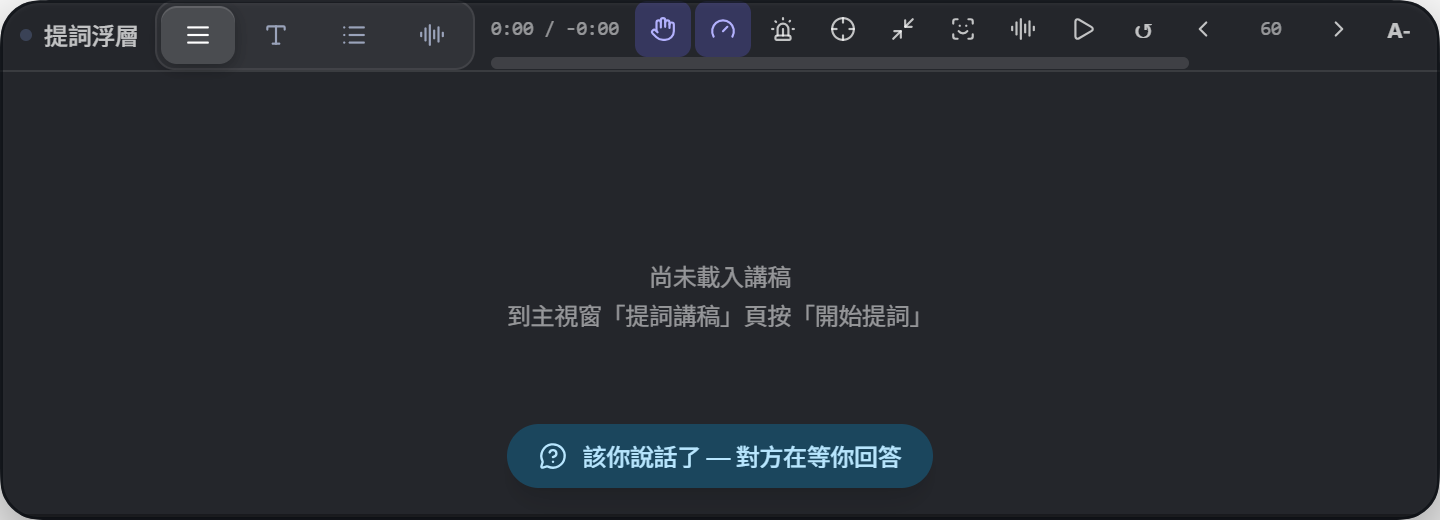
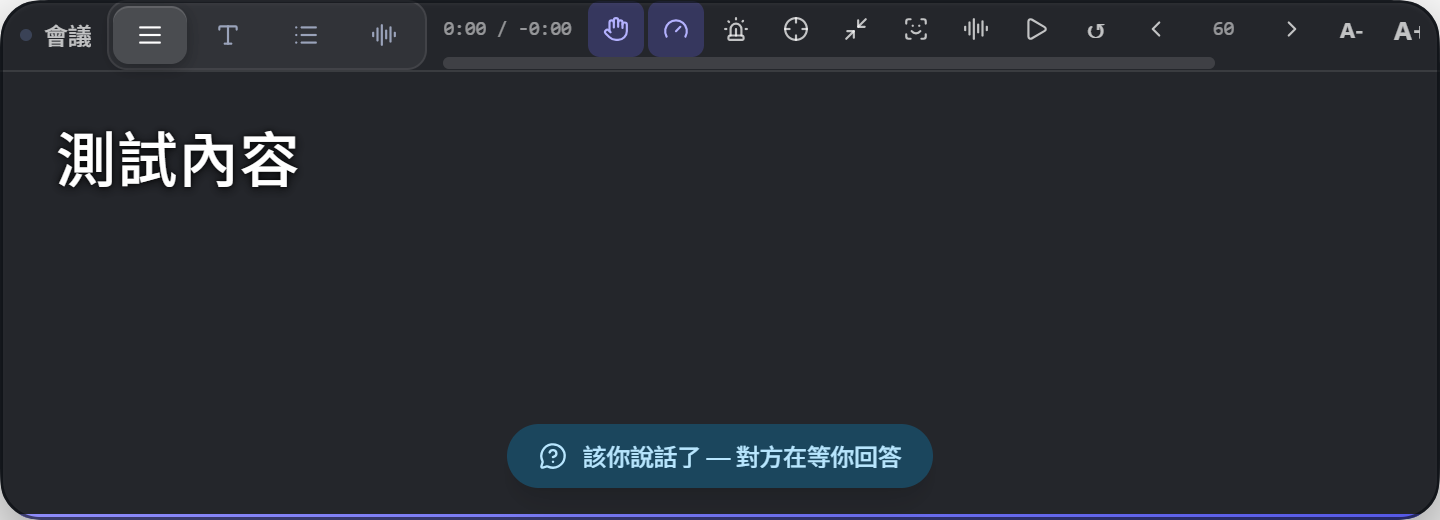
Stop charging 25 seconds for a hint nobody was on screen to see
The previous commit fixed the turn-yield cooldown being charged when a
signal failed to deliver, and called it the first real product defect in
this project. That was true and it was incomplete. It closed "the window
is gone" and "the setting is off"; it left "the window is there and
nobody is looking", which is the common case.

sendTurnYield() returned true as soon as the window existed. But
webContents.send() is fire-and-forget -- it never reports whether anything
is listening -- and the overlay is created with show:false and has no
ready-to-show handler, so it starts hidden. Pressing the hotkey to put it
away is win.hide(): the window survives, the renderer survives,
useTurnYield calls setHint() as usual, and HINT_DISPLAY_MS then expires
the hint where nobody can see it. The 25s per-phrase and 15s global
cooldowns get charged by a prompt that never reached a human.

One line fixes it: reject when !isVisible(). The repo had already answered
this question correctly elsewhere -- ipc.ts guards playPause, speedUp and
speedDown with isDestroyed() && isVisible() and comments "ignore when not
shown". sendTurnYield was the only ambient signal path that did not, and
the only one carrying a 25-second cooldown.

The rest of this is what that one line exposed.

Three specs were measuring a window the user can never see. Playwright
still reads the DOM of a win.hide()d window, so waitForSelector('該你說話
了') passed inside an invisible overlay: the turn-yield case, the coaching
[…]

diff --git a/e2e/smoke.spec.ts b/e2e/smoke.spec.ts
@@ -112,6 +112,17 @@ test('turn-yield:對方問句經 IPC → 浮層顯示「該你說話了」提示
 
     // 強制開啟(使用者可能關過;開關持久化在 settings.json)
     await main.evaluate(() => window.api.setSettings({ overlay: { turnYield: true } }))
+    // **先把浮層叫出來。**
+    //
+    // 這不是多此一舉 —— 這支測試原本是**在隱藏的浮層上通過的**。浮層以
+    // `show: false` 建立(createOverlayWindow)且沒有 ready-to-show→show,
+    // 預設就是隱藏的;而 Playwright 的 waitForSelector 判的是 DOM 盒子有沒有
+    // 版面,win.hide() 之後照樣有。所以「提示有渲染出來」不等於「使用者看得到」。
+    //
+    // sendTurnYield 現在會檢查 isVisible() 拒絕對隱藏浮層回報送達(否則 25 秒
+    // 冷卻會被一個沒人看過的提示吃掉),一改這支測試就紅 —— 而紅的原因正是
+    // 它原本在量一件使用者永遠不會遇到的事。
+    await main.evaluate(() => window.api.overlayShow({ title: '提詞', content: '測試內容' }))
     // 經真 IPC 推對方問句(與 Record 頁系統音訊轉錄相同的 context:push-transcript 路徑)
     // main 偵測問句語尾 → 1.2s 防抖 → 廣播 context:turn-yield → 浮層提示
     //
@@ -133,6 +144,91 @@ test('turn-yield:對方問句經 IPC → 浮層顯示「該你說話了」提示
   }
 })
 
+/**
+ * 隱藏的浮層不該「吃掉」那句問話。
+ *
+ * 這是本專案第一個產品缺陷的**後一半**。sendTurnYield() 原本只要視窗存在且未銷毀
+ * 就回報已送達。但浮層是以 `show: false` 建立的(createOverlayWindow,沒有
+ * ready-to-show→show),而使用者按熱鍵收掉它走的是 win.hide() —— 視窗活著、
+ * renderer 活著、useTurnYield 照樣 setHint(),然後 6 秒的 HINT_DISPLAY_MS
+ * 在沒人看的狀態裡走完。於是 25 秒同句冷卻與 15 秒全域冷卻都被一個
+ * 「從來沒被看見的提示」記帳了。
+ *
+ * 症狀與「浮層根本不存在」完全一樣:那句話不見了,而且接下來 25 秒不會再提示。
+ * 但隱藏比不存在常見得多 —— 「我不提詞」的正常動作就是按熱鍵把它收掉。
+ *
+ * 判別力在最後兩步:
+ *   隱藏 → 推問句 A(A 不得留下任何冷卻)
+ *   顯示 → **馬上**推問句 B → 必須出現提示
+ *
+ * B 是另一句話,所以規則 1(同句 25 秒)擋不住它;擋得住的是規則 2 的 15 秒
+ * 全域冷卻 —— 而那只有「A 記了帳」才會存在。**所以 B 出現 = A 沒被記帳。**
+ * 把 sendTurnYield 的 isVisible() 拿掉,這支測試必紅(已實測:紅在最後一步,
+ * B 的提示 15 秒都等不到)。
+ *
+ * 中間本來還有一條「隱藏時不該有提示」的斷言,**已刻意拿掉**:實測它在修好與
+ * 沒修好的版本裡**都會通過**(隱藏視窗的 setTimeout 被 Chromium 節流,防抖觸發時間
+ * 不穩),也就是說它量不到任何東西。留著一條抓不到東西卻長得像防線的斷言,
+ * 比沒有更糟 —— 下一次有人改壞了它會是綠的,而沒有人知道它從來沒紅過。
+ * 只留最後一步:那一條是真的抓得住(拿掉 isVisible() 時實測紅在此行)。
+ */
+test('浮層隱藏時的搶話訊號不記冷卻:叫回浮層後立刻能再提示', async () => {
+  const { app, main } = await launchApp()
+  test.setTimeout(60_000)
+  try {
+    await expect
+      .poll(() => app.windows().length, { timeout: 15_000, intervals: [500, 1_000, 2_000] })
+      .toBeGreaterThanOrEqual(2)
+    const overlay = app.windows().find((w) => w !== main)
+    expect(overlay).toBeTruthy()
+    await overlay!.waitForLoadState('domcontentloaded')
+
+    // 主程序端的浮層視窗 id:renderer 端看不到自己視窗的可見性,
+    // 而「看不看得見」正是這支測試的前提,所以必須從主程序問。
+    const overlayId = await app.evaluate(({ BrowserWindow }) => {
+      // dev 是 #/overlay、packaged 是 #overlay(loadFile 的 hash 會吃掉斜線),兩種都收
+      const isOverlay = (u: string): boolean => u.endsWith('#overlay') || u.endsWith('#/overlay')
+      const w = BrowserWindow.getAllWindows().find((x) => isOverlay(x.webContents.getURL()))
+      return w ? w.id : -1
+    })
+    expect(overlayId).toBeGreaterThan(0)
+    const overlayVisible = (): Promise<boolean> =>
+      app.evaluate(({ BrowserWindow }, id) => {
+        const w = BrowserWindow.fromId(id)
+        return !!w && !w.isDestroyed() && w.isVisible()
+      }, overlayId)
+
+    await main.evaluate(() => window.api.setSettings({ overlay: { turnYield: true } }))
+    await main.evaluate(() => window.api.overlayShow({ title: '提詞', content: '測試內容' }))
+    await waitOverlayFeedbackReady(overlay!, { turnYield: true })
+    expect(await overlayVisible()).toBe(true)
+
+    // 收掉浮層 —— 與按熱鍵同一條路徑(IPC.OverlayHide → setOverlayVisible(false) →
+    // win.hide())。視窗與 renderer 都還活著,這正是這個 bug 成立的前提。
+    await main.evaluate(() => window.api.overlayHide())
+    await expect.poll(overlayVisible).toBe(false)
+
+    const hint = overlay!.locator('text=該你說話了')
+
+    // 問句 A:送出去了,但沒有人看得到。
+    await main.evaluate(() =>
+      window.api.pushTranscript({ text: '請問這個專案的資料管線是怎麼設計的', speaker: 'them' })
+    )
+    // 這裡刻意**不斷言**「隱藏時 DOM 裡沒有提示」:實測那條在兩種版本都會過,
+    // 抓不到東西(理由見上方註解)。冷卻是否被記帳,由下面 B 的提示決定。
+
+    // 問句 B:浮層叫回來之後**馬上**推。
+    await main.evaluate(() => window.api.overlayShow({ title: '提詞', content: '測試內容' }))
+    expect(await overlayVisible()).toBe(true)
+    await main.evaluate(() =>
+      window.api.pushTranscript({ text: '那你怎麼處理資料延遲的問題', speaker: 'them' })
+    )
+    await hint.waitFor({ state: 'visible', timeout: 15_000 })
+  } finally {
+    await app.close()
+  }
+})
+
 test('即時教練:搶話訊號經 IPC → 浮層顯示教練提示', async () => {
   const { app, main } = await launchApp()
   test.setTimeout(60_000)
@@ -145,6 +241,10 @@ test('即時教練:搶話訊號經 IPC → 浮層顯示教練提示', async () =
     await overlay!.waitForLoadState('domcontentloaded')
 
     await main.evaluate(() => window.api.setSettings({ overlay: { coaching: true } }))
+    // 同樣的原因把浮層叫出來:浮層預設隱藏,而 win.hide() 之後 Playwright 仍然
+    // 讀得到 DOM。教練訊號沒有冷卻所以不受 sendTurnYield 那個修影響,但
+    // 「在藏起來的視窗裡找到元素」本來就不是使用者會遇到的情境。
+    await main.evaluate(() => window.api.overlayShow({ title: '提詞', content: '測試內容' }))
     // 對方剛講完 → 2s 內我方開口 = 搶話。
     // 兩段必須在同一個 evaluate 內背靠背送出:分開兩次呼叫在併跑負載下
     // 可能間隔超過 2s 判定窗,搶話不觸發(併跑 flake 來源)。

diff --git a/src/main/liveCoaching.ts b/src/main/liveCoaching.ts
@@ -98,6 +98,22 @@ function deliverRescue(payload: RescuePayload): void {
 function sendTurnYield(kind: 'turn' | 'peer_silence', question: boolean): boolean {
   if (!state.settings.overlay.turnYield) return false
   if (!state.overlayWindow || state.overlayWindow.isDestroyed()) return false
+  // **浮層必須真的在畫面上。** 隱藏不等於銷毀:setOverlayVisible(false) 走的是
+  // win.hide(),視窗與 renderer 都活著,useTurnYield 照樣 setHint() —— 然後
+  // useTurnYield.ts 的 HINT_DISPLAY_MS(6 秒)在沒人看的狀態裡走完。
+  //
+  // 所以「視窗存在」是**不足以**當作送達證據的:webContents.send() 不會回報
+  // 有沒有 listener,而隱藏時就算 listener 在、訊號也進了 DOM,使用者依然看不到。
+  // 症狀與「浮層不存在」完全一樣(那句話不見了,而且 25 秒內不會再提示),
+  // 卻是常見得多的一種:使用者按熱鍵把浮層收掉是「我不提詞」的正常動作。
+  //
+  // 與 main 端其他環境訊號路徑同形(見 ipc.ts 的 playPause / speedUp / speedDown):
+  // 「未顯示時忽略」。差別在這裡有冷卻,所以「忽略」必須真的回報沒送到。
+  if (!state.overlayWindow.isVisible()) return false
+  // 註:頁面還沒 mount 時 useTurnYield 也還沒註冊 listener(preload 的
+  // onTurnYield 是在 useEffect 裡才 ipcRenderer.on)。那個時間窗很窄,而且
+  // 沒有乾淨的主行程訊號能判斷「renderer 已就緒」—— 真的要把這個洞補滿,
+  // 需要的是 renderer 回報 ready,不是再加一個猜測。
   state.overlayWindow.webContents.send(IPC.TurnYieldSignal, { kind, question, at: Date.now() })
   return true
 }

diff --git a/e2e/meeting-flow.spec.ts b/e2e/meeting-flow.spec.ts
@@ -58,6 +58,18 @@ test('模擬會議:六訊號逐段觸發並截圖', async () => {
     // 訂閱 listener 的空窗期,而 turn-yield 的 1.2s 防抖又不會補送 ——
     // 訊號就憑空消失。完整病因見 helpers/turnYield.ts。
     await waitOverlayFeedbackReady(overlay!, { turnYield: true, coaching: true })
+    // **把浮層叫出來。**
+    //
+    // 浮層以 `show: false` 建立(createOverlayWindow,沒有 ready-to-show→show),
+    // 預設就是隱藏的;而 Playwright 讀得到 win.hide() 之後的 DOM。所以這支測試
+    // 原本是在一個使用者**永遠看不到的視窗**裡驗「提示有沒有出現」。
+    //
+    // sendTurnYield 現在會檢查 isVisible():對隱藏浮層回報「沒送到」,因為
+    // webContents.send() 不會回報有沒有 listener,而隱藏時就算 listener 在、
+    // 訊號也進了 DOM,6 秒的 HINT_DISPLAY_MS 一樣會在沒人看的狀態裡走完 ——
+    // 然後那句話就被自己的 25 秒冷卻擋掉了。加上這行之後這支測試才真的在
+    // 量使用者遇到的情境;截圖也才真的拍得到東西。
+    await main.evaluate(() => window.api.overlayShow({ title: '會議', content: '測試內容' }))
 
     // dead_air 從這裡就開始「被觀察」,而不是等到步驟 5。
     //

diff --git a/CHANGELOG.md b/CHANGELOG.md
@@ -7,6 +7,66 @@
 
 ## [Unreleased]
 
+### 把「沒有人看到的提示」從冷卻裡拿掉 —— 順帶發現三支測試都在量一個藏起來的視窗
+
+上一則修掉「訊號送不出去卻把冷卻記上」之後，我說那是**本專案第一個真的產品缺陷**。寫完才發現：修得不夠。那次關掉了「視窗不存在」與「設定關閉」兩條路徑，**沒關掉「視窗存在但沒人看」** —— 而那比前兩條常見得多。
+
+#### 缺陷本身
+
+`sendTurnYield()` 回傳 `true` 的條件只有三個：設定開、視窗存在、未銷毀。於是 `webContents.send()` 之後**無條件回 true**。
+
+但 `webContents.send()` 是 fire-and-forget：它把訊息丟進 IPC 通道，永遠不會告訴你有人接。而浮層是以 `show: false` 建立的（`createOverlayWindow`，沒有 `ready-to-show → show`），使用者按熱鍵收掉它走的是 `win.hide()` —— **視窗活著、renderer 活著、`useTurnYield` 照樣 `setHint()`**，然後 6 秒的 `HINT_DISPLAY_MS` 在沒人看的狀態裡走完。
+
+症狀與「浮層根本不存在」完全一樣：那句話不見了，而且接下來 25 秒（同句）/ 15 秒（全域）不會再提示。而「我不提詞」的正常動作就是按熱鍵把它收掉。
+
+修法是一行 `if (!state.overlayWindow.isVisible()) return false`。**重點是這個 repo 早就答對過這題** —— `ipc.ts` 的 playPause / speedUp / speedDown 三個熱鍵全都是 `isDestroyed() && isVisible()` 的同一個形狀，連註解都寫著「未顯示時忽略」。`sendTurnYield` 是唯一一個沒檢查的環境訊號路徑，而它偏偏是唯一一個掛著 25 秒冷卻的。
+
+#### 三支測試都在量一個使用者看不到的視窗
+
+這是這一則最該記下來的部分：**修好之後立刻有兩支測試變紅，而它們紅得對。**
+
+Playwright 讀得到 `win.hide()` 之後的 DOM（元素照樣有版面），所以 `waitForSelector('text=該你說話了')` 在一個**使用者永遠看不到的浮層**裡也會通過。於是：
+
+- `smoke.spec.ts` 的 turn-yield 案 —— 從來沒有顯示過浮層；
+- `smoke.spec.ts` 的即時教練案 —— 同樣；
+- `meeting-flow.spec.ts`（六訊號逐段觸發 + 截圖）—— 同樣。
+
+三支測試都在斷言「提示有渲染出來」，而**沒有任何一支斷言過「使用者看得到」**。上一則我修好產品碼、測試全綠，就寫下「第一個真的產品缺陷」—— 那個結論是對的，但證據鏈缺一環：我證明了「沒送到就不記冷卻」，卻沒證明「送達」這件事本身被驗過。
+
+三支都補上 `overlayShow(...)`。`meeting-flow` 附帶的好處是那五張截圖從此真的拍得到東西。
+
+#### 新測試，以及一次抓到我自己斷言是空的
+
+新增 `smoke.spec.ts` 的「浮層隱藏時的搶話訊號不記冷卻」。判別力全在一個設計上：**用冷卻當量測工具，而不是用有沒有畫出來。**
+
+> 隱藏 → 推問句 A → 顯示浮層 → **馬上**推問句 B → B 必須出現提示
+
+B 是另一句話，所以規則 1（同句 25 秒）擋不住它；擋得住的是規則 2 的 15 秒全域冷卻 —— 而那只有「A 記了帳」才會存在。**所以 B 出現 = A 沒被記帳。** 負向驗證：把 `isVisible()` 拿掉，實測紅在最後一步（`TimeoutError`，B 的提示 15 秒都等不到），不是紅在前面。
+
+中間本來還有一條「隱藏時不該有提示」的斷言，**已刻意拿掉**。實測它在修好與沒修好的版本裡**都會通過** —— 原因量得到：隱藏視窗的 `setTimeout` 被 Chromium 節流，防抖觸發時間不穩（實測 bug 版本 t≈2.5s 時提示已經在 DOM 裡，但觸發時間會飄）。也就是說它抓不到任何東西。留著一條抓不到東西卻長得像防線的斷言，比沒有更糟：下一次有人改壞了它是綠的，而沒有人知道它從來沒紅過。
+
+#### `npm run audit` 不再短路
+
+`"audit": "npm run audit:ui && npm run audit:deep && …"` 的 `&&` 會短路 —— `audit:ui` 紅燈，**後面五支一個都不跑**，artifacts 只剩一份報告。而「其他五支的狀況」正是紅燈時最需要的資訊。
+
+這個專案被同一個陷阱咬過兩次，方向相反：P0-C 那一輪只跑 `audit:states`，我自己加的「知道了」鈕（89×17）漏了三小時才被 `audit:ui` 抓到；再早之前 `audit-effects.mjs` 的孤兒 `}` 讓 Panic 之後的程式碼**從來沒執行過**，於是連續三次報 0 筆。**沒跑的稽核不能算通過。**
+
+新增 `scripts/audit-all.mjs`（形狀比照 `release-gate.mjs` 的 `STEPS`，那份在同一個 repo 裡示範了怎麼跑完不短路）：六支由快到慢依序跑完、彙總成表、任一支紅燈整體非 0。兩條分支都驗過（紅燈時 exit 1 且六支全跑；全綠時 exit 0）。
+
+驗的時候又抓到**我自己寫的彙總把「其餘五支」寫死** —— 兩支紅燈時印出「2 支紅燈…其餘五支」，數字自己跟自己矛盾。改成算出來。
+
+#### 驗證
+
+| 項目 | 結果 |
+|---|---|
+| `typecheck` | 0 errors |
+| 單元測試 | **407 通過 / 38 檔** |
+| `audit:effects` | **0 筆**；138 有效果、0 沒效果、1 項 unverifiable |
+| e2e | **42/42**（新增 1 支；`meeting-flow` 修正後回綠） |
+| `audit-all.mjs` | 260 秒窗口內實跑 ui → edge → deep → journey → states 五支依序完成；彙總與兩條退出碼分支用 stub 稽核驗過 |
+| 負向驗證 | 拿掉 `isVisible()` → 新測試紅在最後一步（冷卻被燒掉的確切位置） |
+
+
 ### 挖到底：e2e 那個「重跑就過」的 flake 找著了，而且它牽出**本專案第一個真的產品缺陷**
 
 上一則最後寫著「誠實交代一個仍然存在的 flake」：全套 e2e 第一次跑時 `smoke.spec.ts` 的 turn-yield 失敗（等 30 秒沒等到提示），單獨重跑通過、整組重跑也通過（41/41）。我當時說「我沒有把它挖到底，所以只記在這裡」。這一則挖到底了 —— **挖到的不只是測試。**
